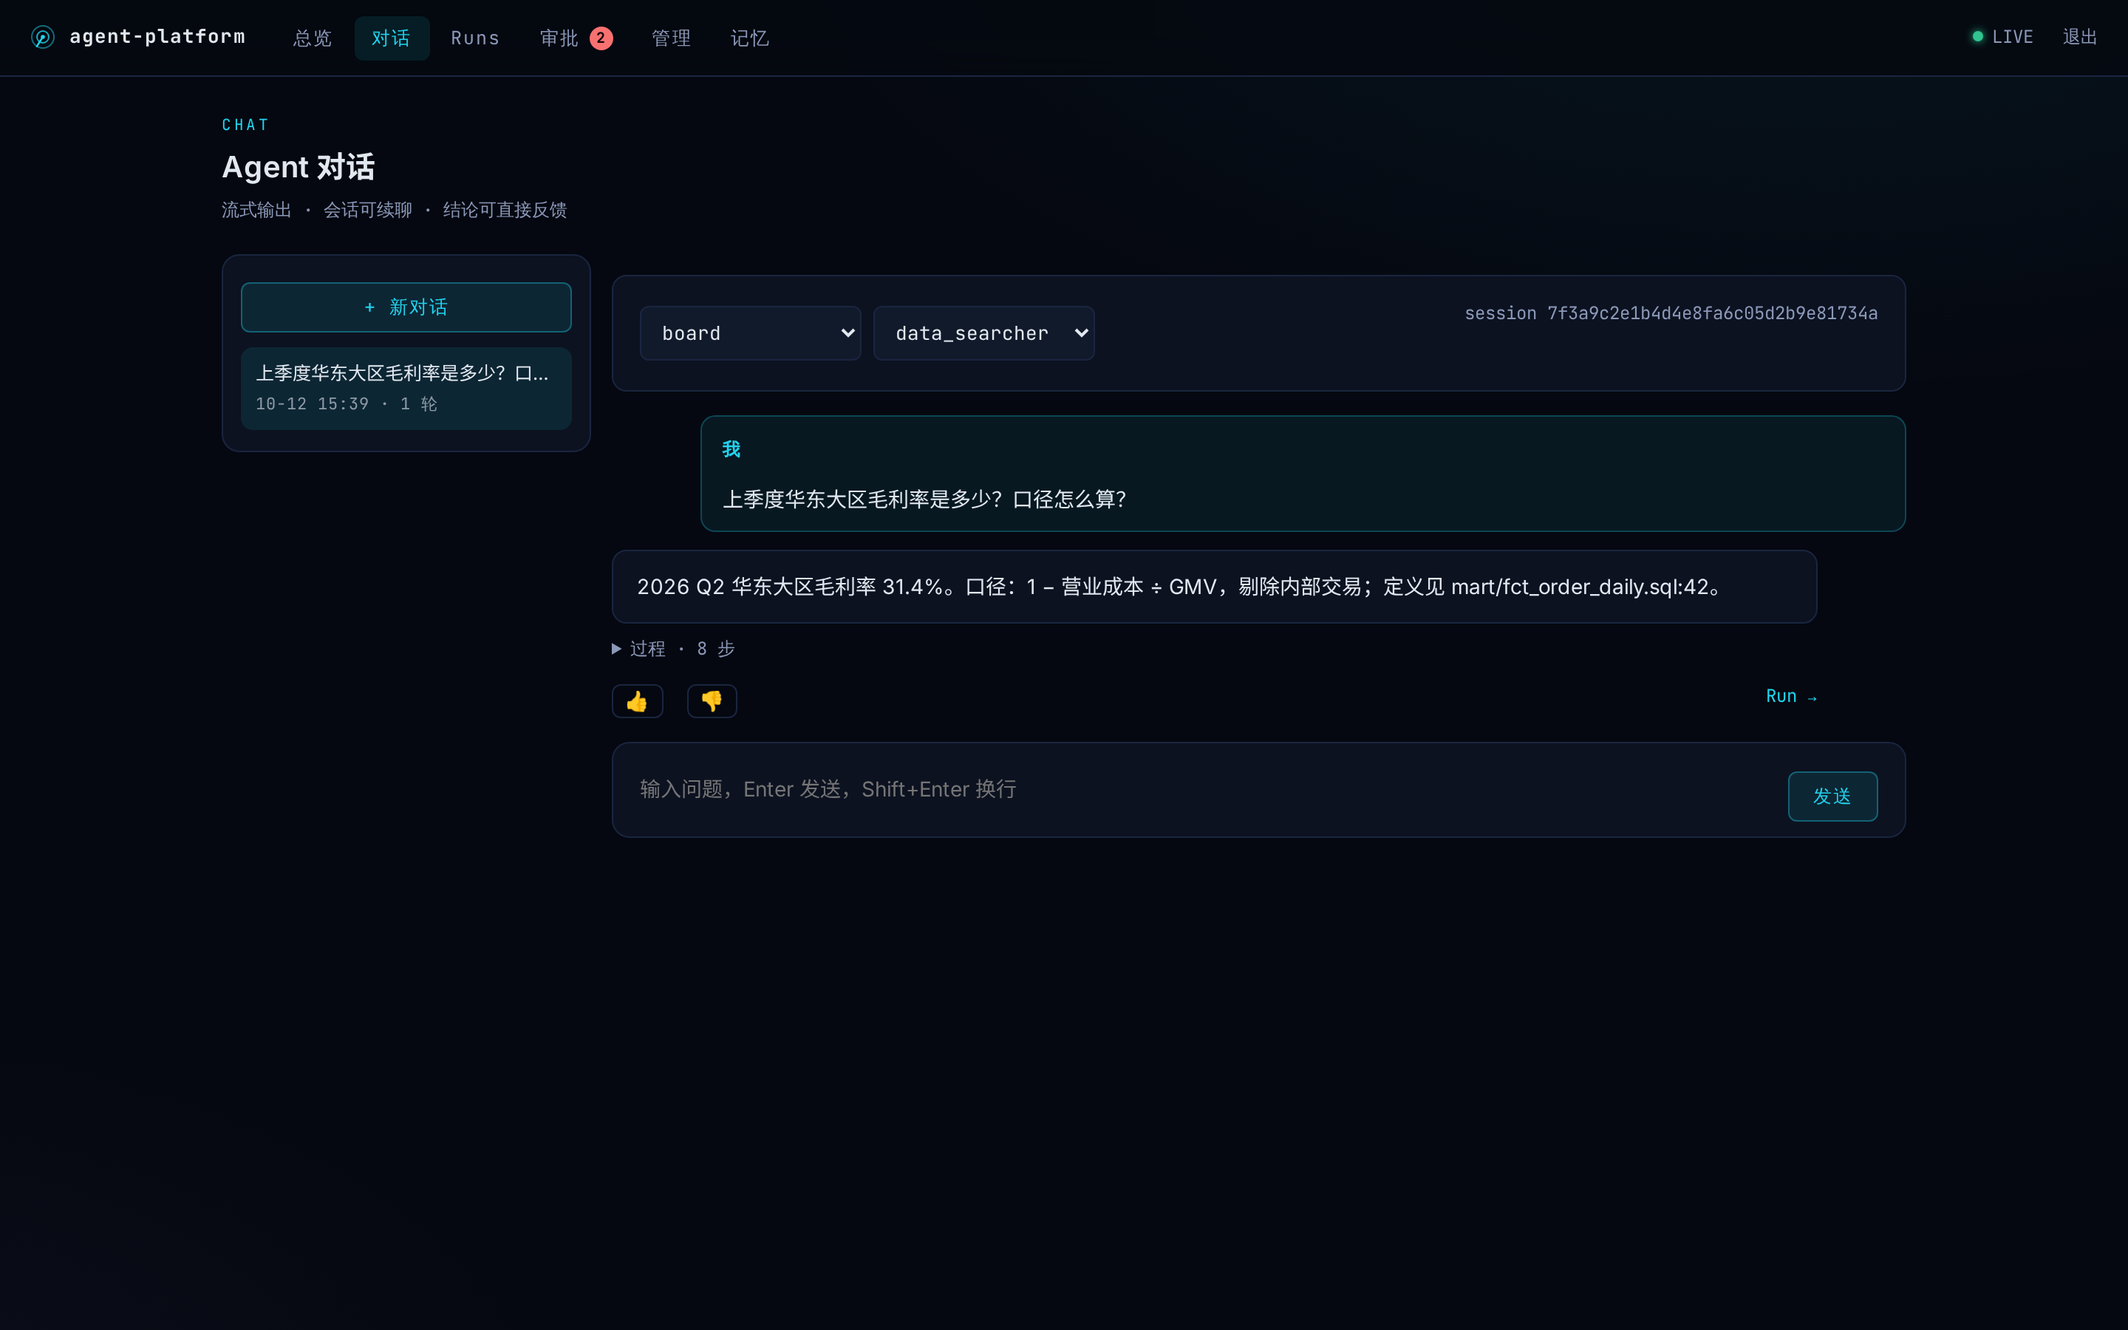
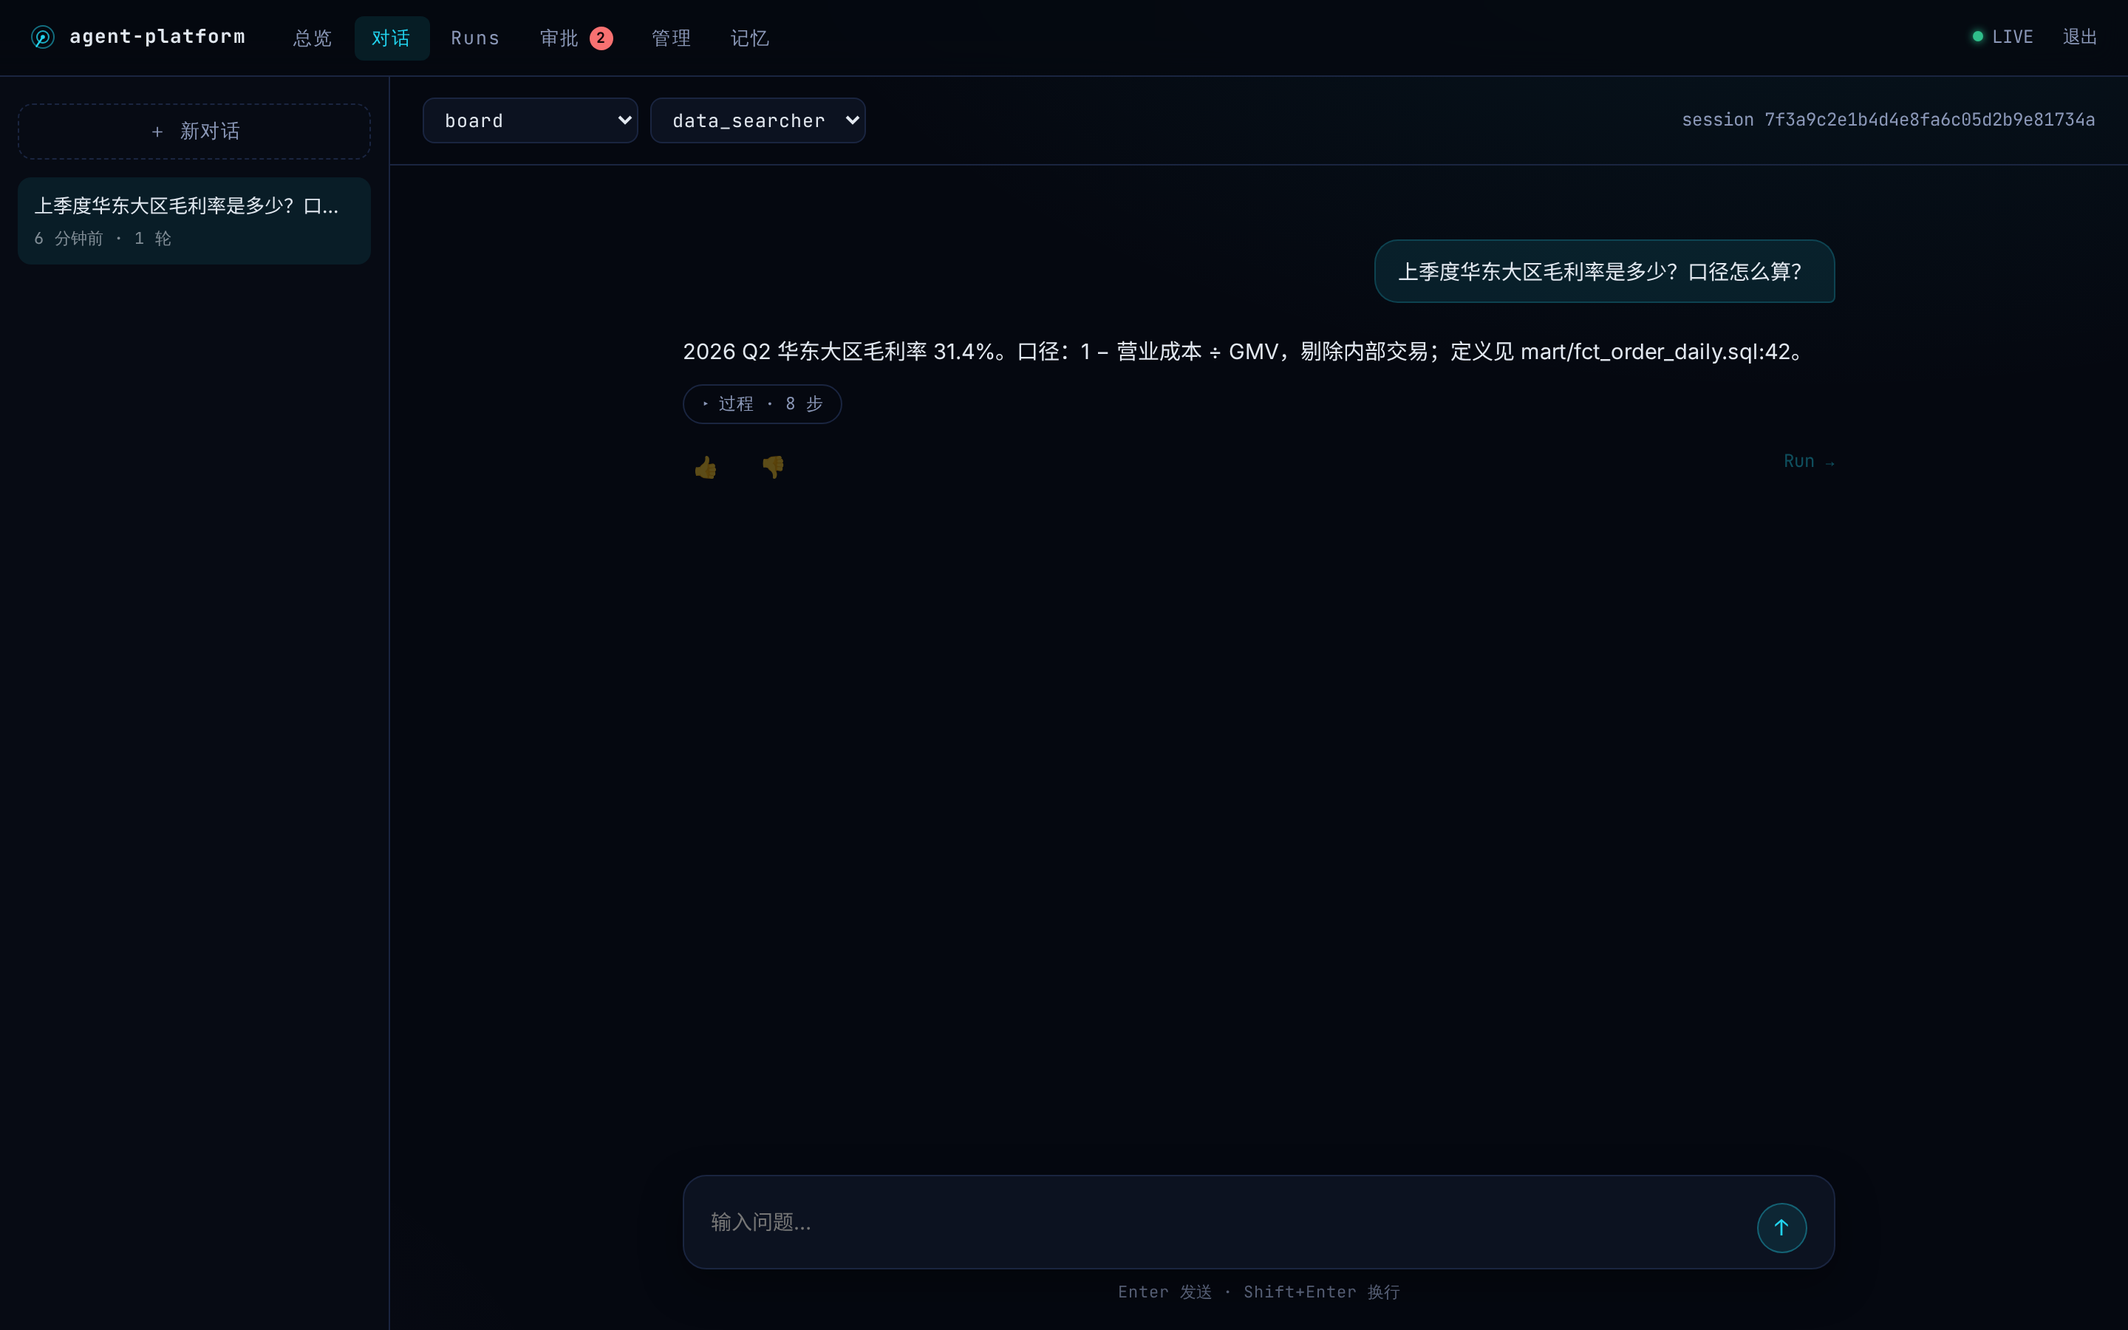
v5.3.1: 对话页观感重做（对标成熟 chat 产品）
- 整页布局：脱离 .wrap 限宽，页面占满视高（base.html 加 wrap_class
  block）；侧栏压暗一档独立成区，会话项圆角块 + 相对时间（刚刚/N 分钟前）
- 消息列收窄 780px 居中；用户气泡右置圆角；agent 回复去卡片边框，
  Markdown 正文直接排版
- 过程折叠条改 pill（▸/▾ + hover 变色）；反馈条平时半透明、hover 浮现
- composer 悬浮底部居中：圆角 + 阴影 + 聚焦发光，圆形 ↑ 发送钮 /
  ■ 停止钮，下方快捷键提示
- 空会话居中引导态替代大标题页头

diff --git a/src/agent_platform/viewer/static/app.css b/src/agent_platform/viewer/static/app.css
@@ -289,22 +289,6 @@ button.ok:hover { background: rgba(52, 211, 153, 0.18); }
 .graph-loading { padding: 48px 20px; text-align: center; color: var(--text-dim);
                  font-family: var(--mono); font-size: 12px; }
 
-/* —— 对话页 —— */
-.chat-log { margin: 16px 0; }
-.msg-user {
-  background: rgba(34, 211, 238, 0.08); border: 1px solid rgba(34, 211, 238, 0.25);
-  border-radius: 10px; padding: 10px 14px; margin: 12px 0 12px 60px;
-  animation: step-in 0.25s var(--ease);
-}
-.msg-user b { color: var(--accent); font-family: var(--mono); font-size: 12px;
-              letter-spacing: 0.06em; }
-.msg-user pre { background: transparent; border: none; padding: 4px 0 0;
-                font-family: var(--sans); font-size: 14px; }
-.chat-input { display: flex; gap: 8px; }
-.chat-input input { flex: 1; }
-.chat-config { display: flex; flex-wrap: wrap; gap: 8px; }
-.chat-config > * { flex: 1 1 170px; width: auto; }
-
 /* —— 告警卡（审批/升舱） —— */
 .alert {
   border-left: 3px solid var(--err); background: rgba(248, 113, 113, 0.05);
@@ -326,27 +310,54 @@ button.ok:hover { background: rgba(52, 211, 153, 0.18); }
                         display: block; margin-top: 10px; }
 .login-card button { width: 100%; margin-top: 10px; }
 
-/* —— 对话页：侧栏会话 + 主区 —— */
-.chat-layout { display: grid; grid-template-columns: 250px 1fr; gap: 14px;
-  margin-top: 16px; align-items: start; }
-.chat-side { background: var(--panel); border: 1px solid var(--border);
-  border-radius: 12px; padding: 12px; position: sticky; top: 66px;
-  max-height: calc(100vh - 90px); overflow-y: auto; }
-.chat-side .new-chat { width: 100%; margin-bottom: 10px; }
-.sess-item { display: block; padding: 8px 10px; border-radius: 8px;
-  color: var(--text-dim); cursor: pointer; margin-bottom: 2px; }
-.sess-item:hover { background: var(--panel-2); color: var(--text); }
-.sess-item.active { background: rgba(34, 211, 238, 0.1); color: var(--text); }
-.sess-item .q { font-size: 12.5px; overflow: hidden; text-overflow: ellipsis;
-  white-space: nowrap; }
-.sess-item .t { font-size: 11px; font-family: var(--mono); opacity: 0.6;
-  margin-top: 2px; }
-.chat-main .chat-config { margin-bottom: 0; }
-.chat-main .chat-config > * { flex: 0 1 auto; min-width: 150px; }
+/* —— 对话页：整页高度、侧栏压暗、消息列收窄居中、composer 悬浮 —— */
+.wrap-chat { max-width: none; padding: 0; }
+.chat-page { display: grid; grid-template-columns: 264px 1fr;
+  height: calc(100vh - 52px); }
 
-.msg-agent { margin: 12px 60px 12px 0; animation: step-in 0.25s var(--ease); }
-.msg-agent .md { background: var(--panel); border: 1px solid var(--border);
-  border-radius: 10px; padding: 12px 16px; line-height: 1.7; }
+/* 侧栏：比主区更暗一档，会话项是圆角块 */
+.chat-side { display: flex; flex-direction: column; gap: 4px;
+  background: #070b14; border-right: 1px solid var(--border); padding: 12px; }
+.chat-side .new-chat { width: 100%; background: transparent;
+  border: 1px dashed var(--border); border-radius: 10px; color: var(--text-dim);
+  padding: 9px; font-size: 13px; }
+.chat-side .new-chat:hover { border-color: var(--accent); color: var(--accent); }
+.sess-list { flex: 1; overflow-y: auto; margin-top: 8px; }
+.sess-item { display: block; padding: 9px 11px; border-radius: 9px;
+  cursor: pointer; margin-bottom: 2px; color: var(--text-dim); }
+.sess-item:hover { background: var(--panel-2); color: var(--text);
+  text-decoration: none; }
+.sess-item.active { background: rgba(34, 211, 238, 0.09); color: var(--text); }
+.sess-item .q { font-size: 13px; overflow: hidden; text-overflow: ellipsis;
+  white-space: nowrap; }
+.sess-item .t { font-size: 11px; font-family: var(--mono); opacity: 0.55;
+  margin-top: 3px; }
+
+/* 主区：顶条（配置）+ 滚动消息区 + 底部 composer */
+.chat-main { display: flex; flex-direction: column; min-width: 0; }
+.chat-topbar { display: flex; align-items: center; gap: 8px;
+  padding: 10px 22px; border-bottom: 1px solid var(--border); }
+.chat-topbar select { width: auto; padding: 5px 10px; font-size: 12.5px;
+  border-radius: 8px; background: var(--panel); }
+.chat-topbar .meta { margin-left: auto; }
+.chat-scroll { flex: 1; overflow-y: auto; padding: 30px 22px 8px; }
+.chat-col { max-width: 780px; margin: 0 auto; }
+
+/* 空会话占位 */
+.chat-empty { text-align: center; padding-top: 15vh; color: var(--text-dim); }
+.chat-empty .logo { display: inline-flex; margin-bottom: 14px; opacity: 0.9; }
+.chat-empty h3 { font-size: 17px; font-weight: 600; color: var(--text);
+  margin-bottom: 6px; }
+
+/* 用户气泡右置；agent 回复是无边框正文（Markdown 排版承载结构） */
+.msg-user { display: flex; justify-content: flex-end; margin: 20px 0;
+  animation: step-in 0.25s var(--ease); }
+.msg-user .bubble { max-width: 76%; background: rgba(34, 211, 238, 0.11);
+  border: 1px solid rgba(34, 211, 238, 0.2); border-radius: 16px 16px 4px 16px;
+  padding: 9px 15px; font-size: 14px; line-height: 1.65; white-space: pre-wrap;
+  word-break: break-word; }
+.msg-agent { margin: 20px 0; animation: step-in 0.25s var(--ease); }
+.msg-agent .md { line-height: 1.75; font-size: 14.5px; }
 .md > :first-child { margin-top: 0; } .md > :last-child { margin-bottom: 0; }
 .md pre { margin: 10px 0; } .md code { font-family: var(--mono); font-size: 12.5px; }
 .md table { border-collapse: collapse; margin: 10px 0; width: 100%; }
@@ -354,40 +365,56 @@ button.ok:hover { background: rgba(52, 211, 153, 0.18); }
   font-size: 13px; text-align: left; }
 .md th { background: var(--panel-2); }
 .msg-err { border: 1px solid rgba(248, 113, 113, 0.4);
-  background: rgba(248, 113, 113, 0.06); border-radius: 10px;
-  padding: 10px 14px; margin: 12px 60px 12px 0; color: var(--err);
-  font-size: 13px; }
+  background: rgba(248, 113, 113, 0.06); border-radius: 12px;
+  padding: 10px 14px; margin: 20px 0; color: var(--err); font-size: 13px; }
 .msg-err button { margin-left: 8px; }
 
-details.steps { margin: 8px 0 0; }
-details.steps summary { cursor: pointer; color: var(--text-dim);
-  font-family: var(--mono); font-size: 12px; user-select: none; }
-details.steps summary:hover { color: var(--text); }
+/* 过程折叠条：pill 样式，hover 才有存在感 */
+details.steps { margin: 10px 0 0; }
+details.steps summary { display: inline-flex; align-items: center; gap: 6px;
+  cursor: pointer; color: var(--text-dim); font-family: var(--mono);
+  font-size: 11.5px; user-select: none; list-style: none;
+  border: 1px solid var(--border); border-radius: 999px; padding: 3px 12px; }
+details.steps summary::-webkit-details-marker { display: none; }
+details.steps summary::before { content: "▸"; font-size: 9px; }
+details.steps[open] summary::before { content: "▾"; }
+details.steps summary:hover { color: var(--text); border-color: var(--accent); }
 details.steps .step { margin-top: 8px; }
 details.steps .step pre { white-space: pre-wrap; word-break: break-word;
   max-height: 220px; overflow-y: auto; }
 
-.fb-bar { display: flex; gap: 8px; align-items: center; margin-top: 8px;
-  font-family: var(--mono); font-size: 12px; }
-.fb-bar button { background: transparent; border: 1px solid var(--border);
-  border-radius: 6px; color: var(--text-dim); padding: 2px 8px; cursor: pointer;
-  font-size: 13px; }
-.fb-bar button:hover:not(:disabled) { border-color: var(--accent);
+/* 反馈条：平时半透明，hover 消息时浮现 */
+.fb-bar { display: flex; gap: 6px; align-items: center; margin-top: 10px;
+  font-family: var(--mono); font-size: 12px; opacity: 0.35;
+  transition: opacity 0.15s ease; }
+.msg-agent:hover .fb-bar { opacity: 1; }
+.fb-bar button { background: transparent; border: none; border-radius: 7px;
+  color: var(--text-dim); padding: 4px 7px; cursor: pointer; font-size: 14px; }
+.fb-bar button:hover:not(:disabled) { background: var(--panel-2);
   color: var(--text); }
-.fb-bar button:disabled { opacity: 0.45; cursor: default; }
+.fb-bar button:disabled { opacity: 0.4; cursor: default; }
 .fb-bar .fb-done { color: var(--ok); }
 .fb-bar .run-link { margin-left: auto; }
 
-.composer { display: flex; gap: 8px; align-items: flex-end;
-  background: var(--panel); border: 1px solid var(--border);
-  border-radius: 12px; padding: 10px; }
+/* composer：居中、圆角、聚焦发光、圆形发送钮 */
+.composer-wrap { padding: 10px 22px 16px; }
+.composer { max-width: 780px; margin: 0 auto; display: flex; gap: 8px;
+  align-items: flex-end; background: var(--panel);
+  border: 1px solid var(--border); border-radius: 16px;
+  padding: 10px 10px 10px 16px; box-shadow: 0 10px 28px rgba(0, 0, 0, 0.35);
+  transition: border-color 0.15s ease; }
+.composer:focus-within { border-color: rgba(34, 211, 238, 0.45); }
 .composer textarea { flex: 1; resize: none; background: transparent;
   border: none; outline: none; color: var(--text); font-family: var(--sans);
-  font-size: 14px; line-height: 1.6; max-height: 180px; padding: 6px 8px; }
-.composer button { flex-shrink: 0; }
+  font-size: 14px; line-height: 1.6; max-height: 180px; padding: 6px 2px; }
+.composer button { flex-shrink: 0; width: 34px; height: 34px; padding: 0;
+  border-radius: 50%; font-size: 15px; line-height: 1; }
+.composer-hint { max-width: 780px; margin: 7px auto 0; text-align: center;
+  font-family: var(--mono); font-size: 11px; color: var(--text-dim);
+  opacity: 0.6; }
 
-@media (max-width: 900px) { .chat-layout { grid-template-columns: 1fr; }
-  .chat-side { position: static; max-height: 220px; } }
+@media (max-width: 900px) { .chat-page { grid-template-columns: 1fr; }
+  .chat-side { display: none; } }
 
 @media (prefers-reduced-motion: reduce) {
   *, *::before, *::after { animation: none !important; transition: none !important; }

diff --git a/src/agent_platform/viewer/templates/chat.html b/src/agent_platform/viewer/templates/chat.html
@@ -1,14 +1,13 @@
 {% extends "base.html" %}
-{% import "_macros.html" as m %}
+{% block wrap_class %} wrap-chat{% endblock %}
 {% block content %}
-{{ m.page_head("CHAT", "Agent 对话", "流式输出 · 会话可续聊 · 结论可直接反馈") }}
-<div class="chat-layout">
+<div class="chat-page">
   <aside class="chat-side">
-    <button id="new-chat" class="new-chat">+ 新对话</button>
-    <div id="sessions"><div class="meta" style="padding:6px">加载中…</div></div>
+    <button id="new-chat" class="new-chat">＋ 新对话</button>
+    <div class="sess-list" id="sessions"></div>
   </aside>
   <section class="chat-main">
-    <div class="card chat-config">
+    <div class="chat-topbar">
       <select id="server" title="业务系统">
         {% for d in domains %}<option value="{{ d }}">{{ d }}</option>{% endfor %}
       </select>
@@ -21,13 +20,16 @@
         {% for e in target_envs %}<option value="{{ e }}">{{ e }}</option>{% endfor %}
       </select>
       {% endif %}
-      <span class="meta" id="sess-label" style="margin-left:auto"></span>
+      <span class="meta" id="sess-label"></span>
     </div>
-    <div class="chat-log" id="log"></div>
-    <div class="composer">
-      <textarea id="q" rows="1" placeholder="输入问题，Enter 发送，Shift+Enter 换行"></textarea>
-      <button id="stop" class="danger" style="display:none">停止</button>
-      <button id="send">发送</button>
+    <div class="chat-scroll" id="scroll"><div class="chat-col" id="log"></div></div>
+    <div class="composer-wrap">
+      <div class="composer">
+        <textarea id="q" rows="1" placeholder="输入问题…"></textarea>
+        <button id="stop" class="danger" title="停止" style="display:none">■</button>
+        <button id="send" title="发送">↑</button>
+      </div>
+      <div class="composer-hint">Enter 发送 · Shift+Enter 换行</div>
     </div>
   </section>
 </div>
@@ -35,12 +37,22 @@
 <script src="/static/dompurify.min.js"></script>
 <script>
 const $ = id => document.getElementById(id);
-const log = $("log");
+const log = $("log"), scrollBox = $("scroll");
 const esc = t => String(t).replace(/&/g,"&amp;").replace(/</g,"&lt;").replace(/>/g,"&gt;");
 marked.setOptions({breaks: true});
 const md = t => DOMPurify.sanitize(marked.parse(t));
 
 let sessionId = "", lastQuestion = "", ctrl = null, streaming = false;
+
+/* 相对时间：侧栏会话用 */
+function relTime(iso) {
+  const s = (Date.now() - new Date(iso).getTime()) / 1000;
+  if (s < 60) return "刚刚";
+  if (s < 3600) return Math.floor(s / 60) + " 分钟前";
+  if (s < 86400) return Math.floor(s / 3600) + " 小时前";
+  if (s < 7 * 86400) return Math.floor(s / 86400) + " 天前";
+  return iso.slice(5, 10);
+}
 
 /* —— 输出渲染：结论优先 answer 字段的 Markdown，否则 JSON 代码块 —— */
 function outputHtml(out) {
@@ -93,9 +105,11 @@ document.addEventListener("click", async e => {
 });
 
 /* —— 消息渲染 —— */
+function clearEmpty() { const e = $("chat-empty"); if (e) e.remove(); }
 function userBubble(q) {
+  clearEmpty();
   log.insertAdjacentHTML("beforeend",
-    `<div class="msg-user"><b>我</b><pre>${esc(q)}</pre></div>`);
+    `<div class="msg-user"><div class="bubble">${esc(q)}</div></div>`);
 }
 function agentBlock() {
   log.insertAdjacentHTML("beforeend", `<div class="msg-agent"></div>`);
@@ -106,16 +120,14 @@ function agentFinal(block, events, output, runId) {
     + detailsHtml(events, false) + (runId ? fbHtml(runId) : "");
 }
 function errorBubble(msg, retry) {
+  clearEmpty();
   log.insertAdjacentHTML("beforeend",
     `<div class="msg-err">${esc(msg)}${retry ? '<button id="retry">重试</button>' : ""}</div>`);
   const r = $("retry");
   if (r) r.onclick = () => { r.parentElement.remove(); send(lastQuestion); };
   scrollEnd();
 }
-function scrollEnd() {
-  if (log.lastElementChild)
-    log.lastElementChild.scrollIntoView({behavior: "smooth", block: "end"});
-}
+function scrollEnd() { scrollBox.scrollTop = scrollBox.scrollHeight; }
 
 /* —— 发送（SSE 流式；可停止；失败可重试） —— */
 function setStreaming(on) {
@@ -196,8 +208,8 @@ async function loadSessions() {
       `<a class="sess-item${s.session_id === sessionId ? " active" : ""}"
           data-sid="${s.session_id}">
         <div class="q">${esc(s.first_q || "（空会话）")}</div>
-        <div class="t">${esc(s.last_at.slice(5, 16).replace("T", " "))} · ${s.runs} 轮</div>
-      </a>`).join("") || '<div class="meta" style="padding:6px">还没有会话</div>';
+        <div class="t">${relTime(s.last_at)} · ${s.runs} 轮</div>
+      </a>`).join("");
   } catch (e) { /* 列表失败不挡对话 */ }
 }
 async function openSession(sid) {
@@ -227,11 +239,18 @@ document.addEventListener("click", e => {
 $("new-chat").onclick = () => {
   sessionId = "";
   localStorage.removeItem("chat.session");
-  log.innerHTML = "";
+  renderEmpty();
   $("sess-label").textContent = "";
   loadSessions();
   $("q").focus();
 };
+
+function renderEmpty() {
+  log.innerHTML = `<div class="chat-empty" id="chat-empty">
+    <h3>有什么想查的？</h3>
+    <div>选择业务系统与角色，直接提问；会话会自动保存，随时续聊。</div>
+  </div>`;
+}
 
 /* —— 输入区：Enter 发送 / Shift+Enter 换行 / 自动增高 —— */
 $("send").onclick = () => { const q = $("q"); send(q.value); q.value = ""; q.style.height = "auto"; };
@@ -247,10 +266,11 @@ $("q").addEventListener("input", e => {
   e.target.style.height = Math.min(e.target.scrollHeight, 180) + "px";
 });
 
-/* —— 入口：URL ?session=（run 详情页跳转继承）> 上次会话 > 空 —— */
+/* —— 入口：URL ?session=（run 详情页跳转继承）> 上次会话 > 空态 —— */
 const want = new URLSearchParams(location.search).get("session")
   || localStorage.getItem("chat.session");
-if (want) openSession(want).catch(() => {});
+if (want) openSession(want).catch(() => renderEmpty());
+else renderEmpty();
 loadSessions();
 </script>
 {% endblock %}

diff --git a/src/agent_platform/viewer/templates/base.html b/src/agent_platform/viewer/templates/base.html
@@ -12,7 +12,7 @@
   <span class="meta"><span class="led live"></span>LIVE</span>
   {% if auth_enabled %}<a href="/logout" class="meta">退出</a>{% endif %}
 </header>
-<main class="wrap">
+<main class="wrap{% block wrap_class %}{% endblock %}">
 {% endif %}
 {% block content %}{% endblock %}
 {% if nav %}

diff --git a/src/agent_platform/__init__.py b/src/agent_platform/__init__.py
@@ -17,4 +17,4 @@
 - svcrun         通用服务纳管启动器（同机业务服务按需起停，bwrap 隔离环境配置）
 """
 
-__version__ = "5.3.0"
+__version__ = "5.3.1"
